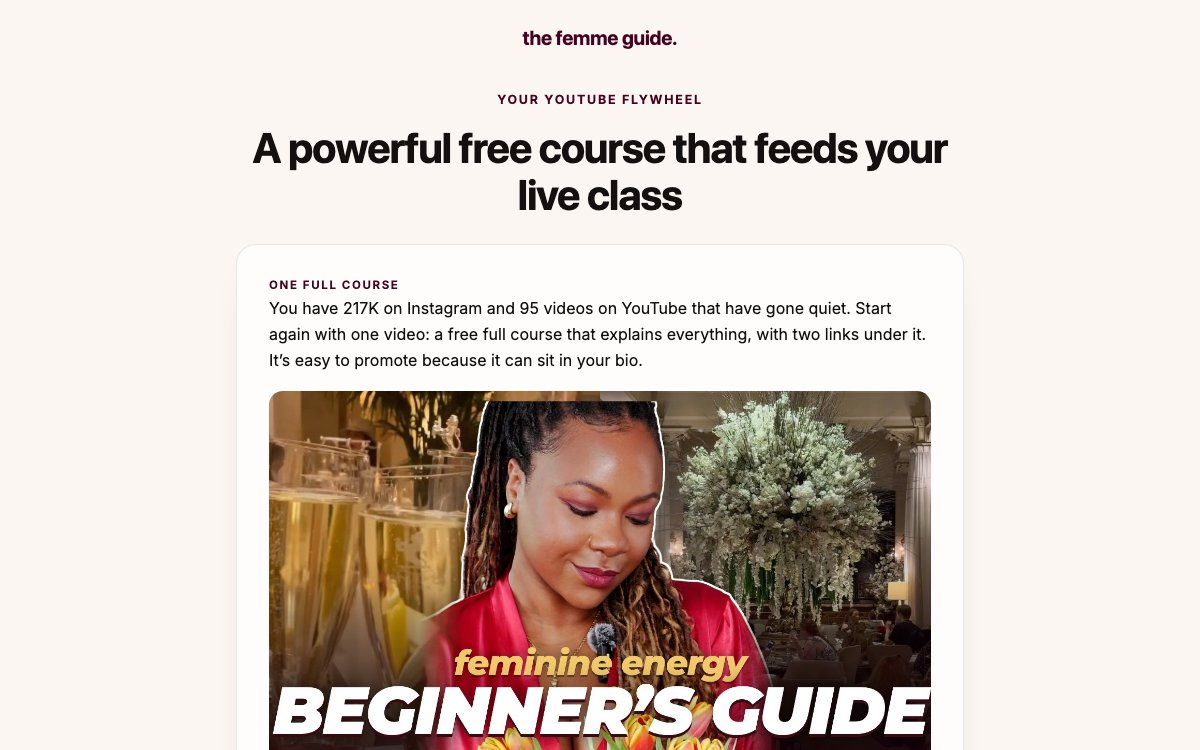
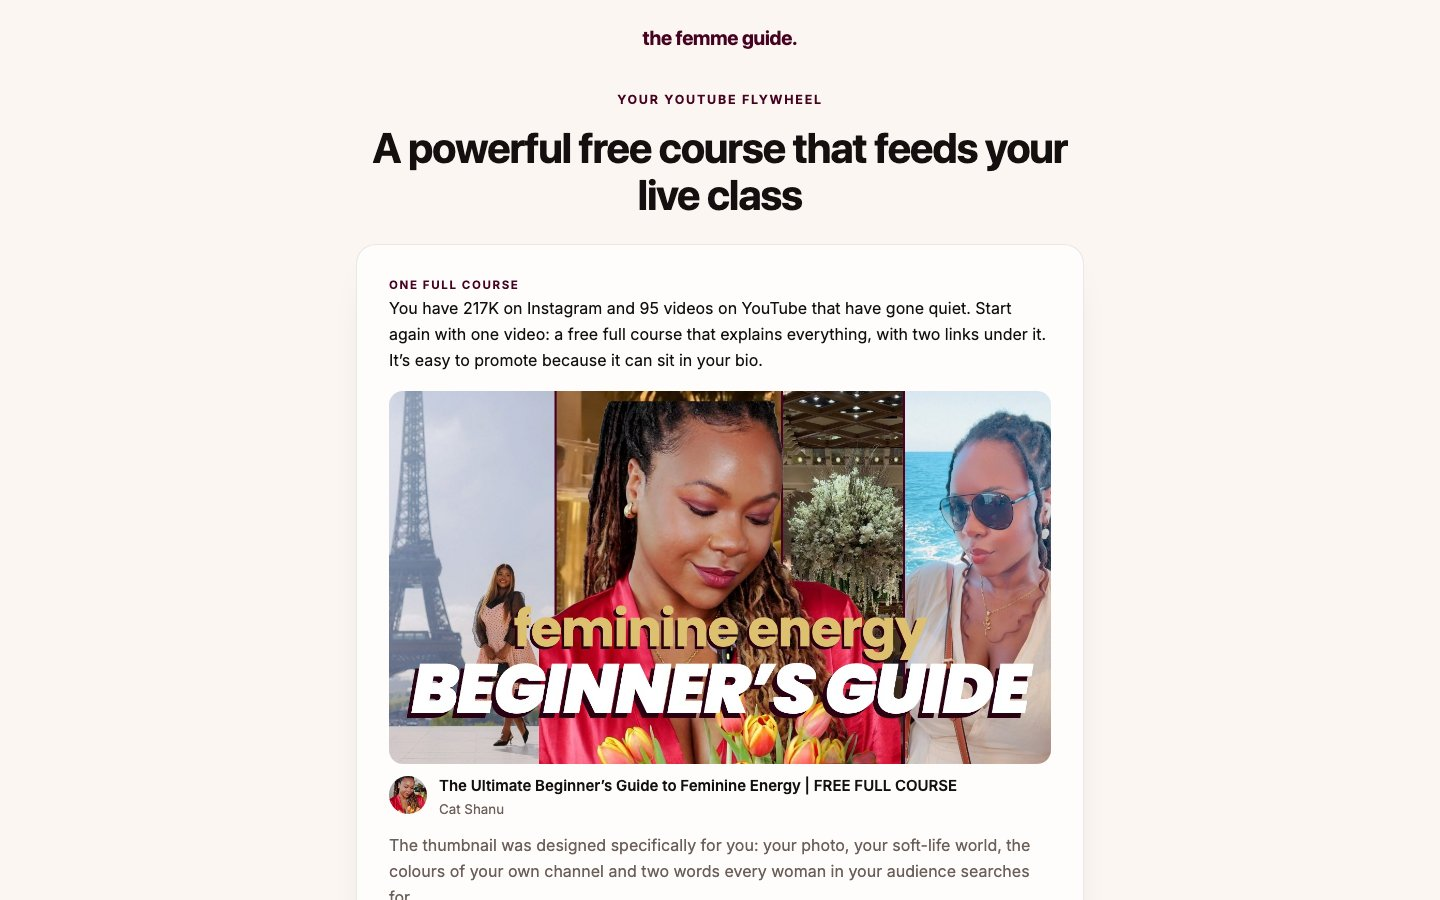
Flywheel thumbnail: niche reference layout in Cat's channel colours

diff --git a/index.html b/index.html
@@ -191,7 +191,7 @@
               <span class="pcard__body"><span><span class="pcard__kicker">Free live class · 90 slides</span><span class="pcard__title">Your proven webinar presentation</span><span class="pcard__desc">The Simple 3-Step Formula Feminine Women Use to Become Magnetic Without Faking It. Your story, the 3 steps, real client words, then Private Coaching with Cat and &ldquo;See if you qualify&rdquo;.</span></span><span class="pcard__link">Open preview <span class="arrow" aria-hidden="true"></span></span></span>
             </button>
             <button class="pcard reveal" data-title="Your simple YouTube flywheel" data-embed="youtube-flywheel/?v=20">
-              <span class="thumb"><span class="thumb__bar"><i></i><i></i><i></i><span class="thumb__url">your free full course</span></span><img class="thumb__img" src="assets/img/flywheel-preview.jpg?v=21" alt="Your simple YouTube flywheel preview" loading="lazy" /></span>
+              <span class="thumb"><span class="thumb__bar"><i></i><i></i><i></i><span class="thumb__url">your free full course</span></span><img class="thumb__img" src="assets/img/flywheel-preview.jpg?v=22" alt="Your simple YouTube flywheel preview" loading="lazy" /></span>
               <span class="pcard__body"><span><span class="pcard__kicker">Free full course on YouTube</span><span class="pcard__title">Your simple YouTube flywheel</span><span class="pcard__desc">One free full course, The Ultimate Beginner&rsquo;s Guide to Feminine Energy, with two links under it: your free 21-day e-book and a way to work with you.</span></span><span class="pcard__link">Open preview <span class="arrow" aria-hidden="true"></span></span></span>
             </button>
           </div>

diff --git a/youtube-flywheel/index.html b/youtube-flywheel/index.html
@@ -58,10 +58,10 @@ h2{font:700 clamp(22px,3.6vw,28px)/1.15 SFD,Inter;margin:6px 0 14px;letter-spaci
     <span class="tag">One full course</span>
     <p>You have 217K on Instagram and 95 videos on YouTube that have gone quiet. Start again with one video: a free full course that explains everything, with two links under it. It&rsquo;s easy to promote because it can sit in your bio.</p>
     <div class="yt">
-      <div class="yt__thumb"><img src="../assets/img/flywheel-thumb.jpg?v=2" alt="Free full course thumbnail" /></div>
+      <div class="yt__thumb"><img src="../assets/img/flywheel-thumb.jpg?v=3" alt="Free full course thumbnail" /></div>
       <div class="yt__meta"><img src="../assets/img/pfp.jpg" alt="" /><div><b>The Ultimate Beginner&rsquo;s Guide to Feminine Energy | FREE FULL COURSE</b><small>Cat Shanu</small></div></div>
     </div>
-    <p class="muted" style="margin-top:12px">The thumbnail was designed specifically for you: your photo, your soft-life world and two words every woman in your audience searches for.</p>
+    <p class="muted" style="margin-top:12px">The thumbnail was designed specifically for you: your photo, your soft-life world, the colours of your own channel and two words every woman in your audience searches for.</p>
   </article>
   <article class="card">
     <span class="tag">How it works</span>
